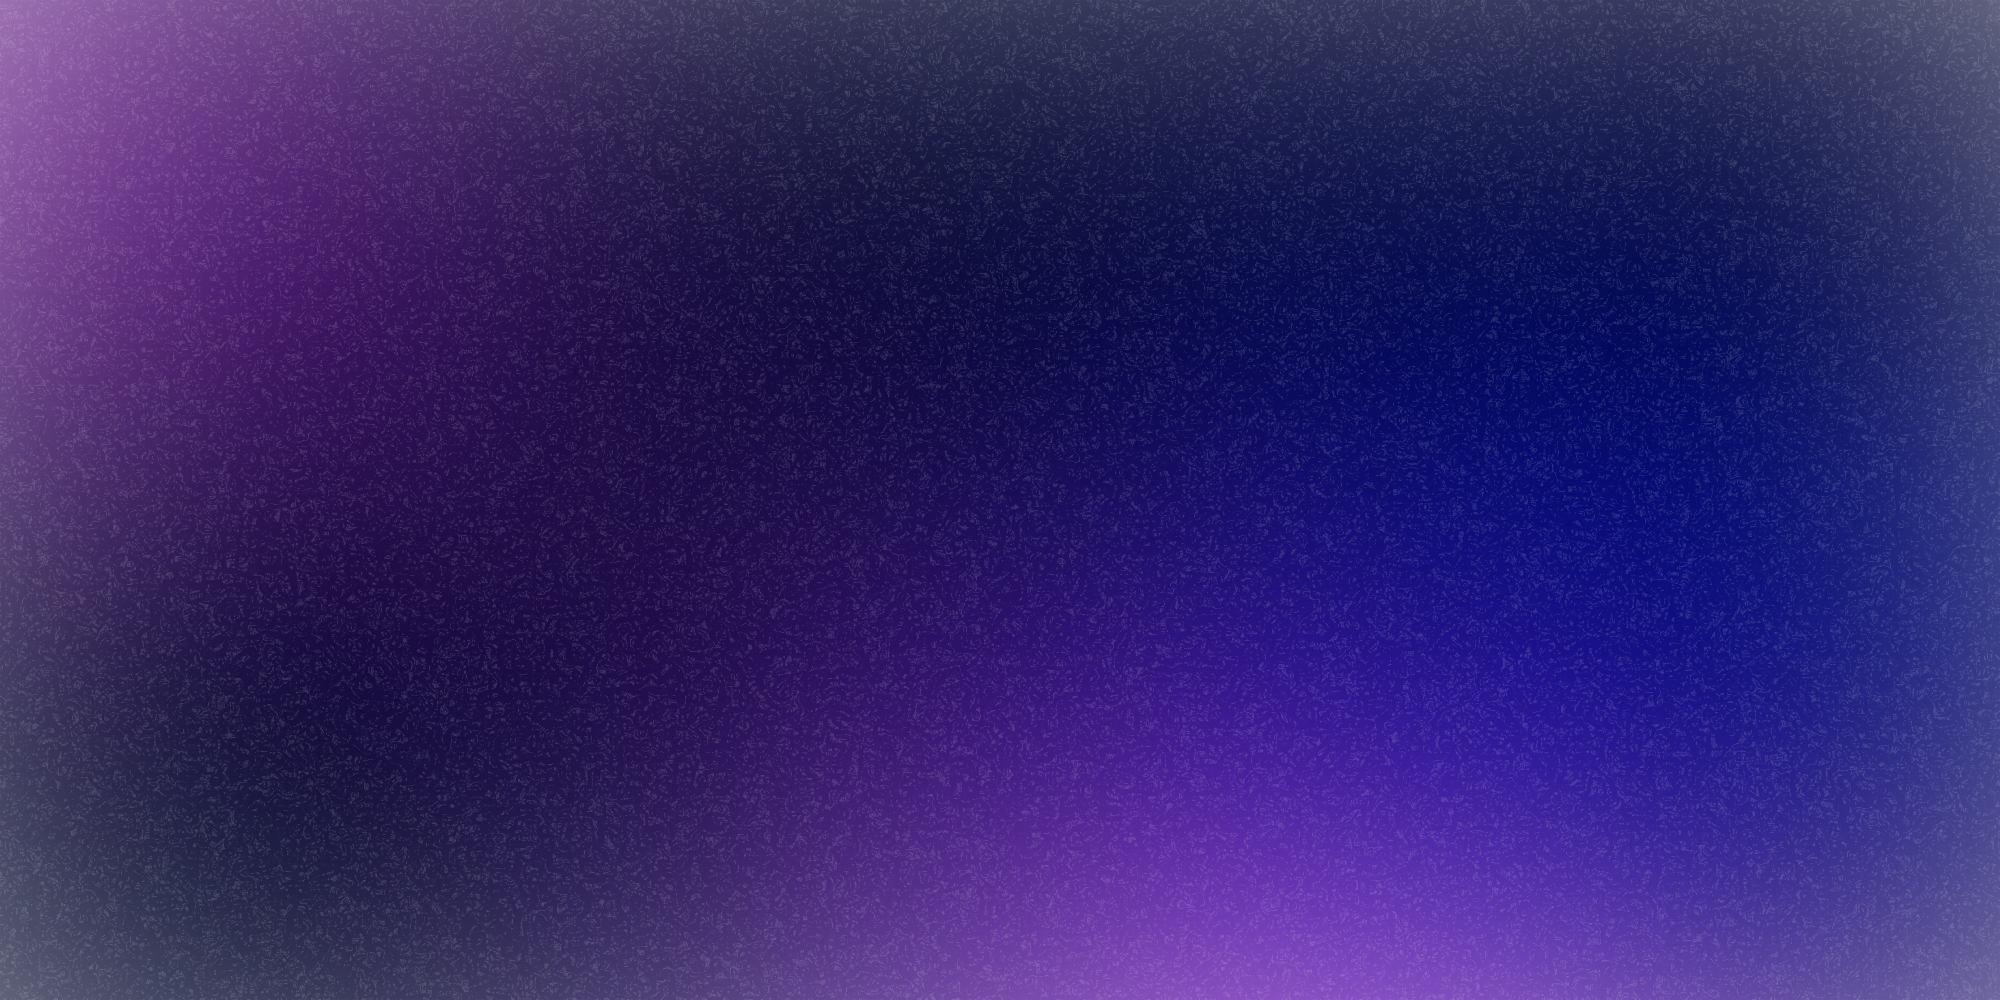
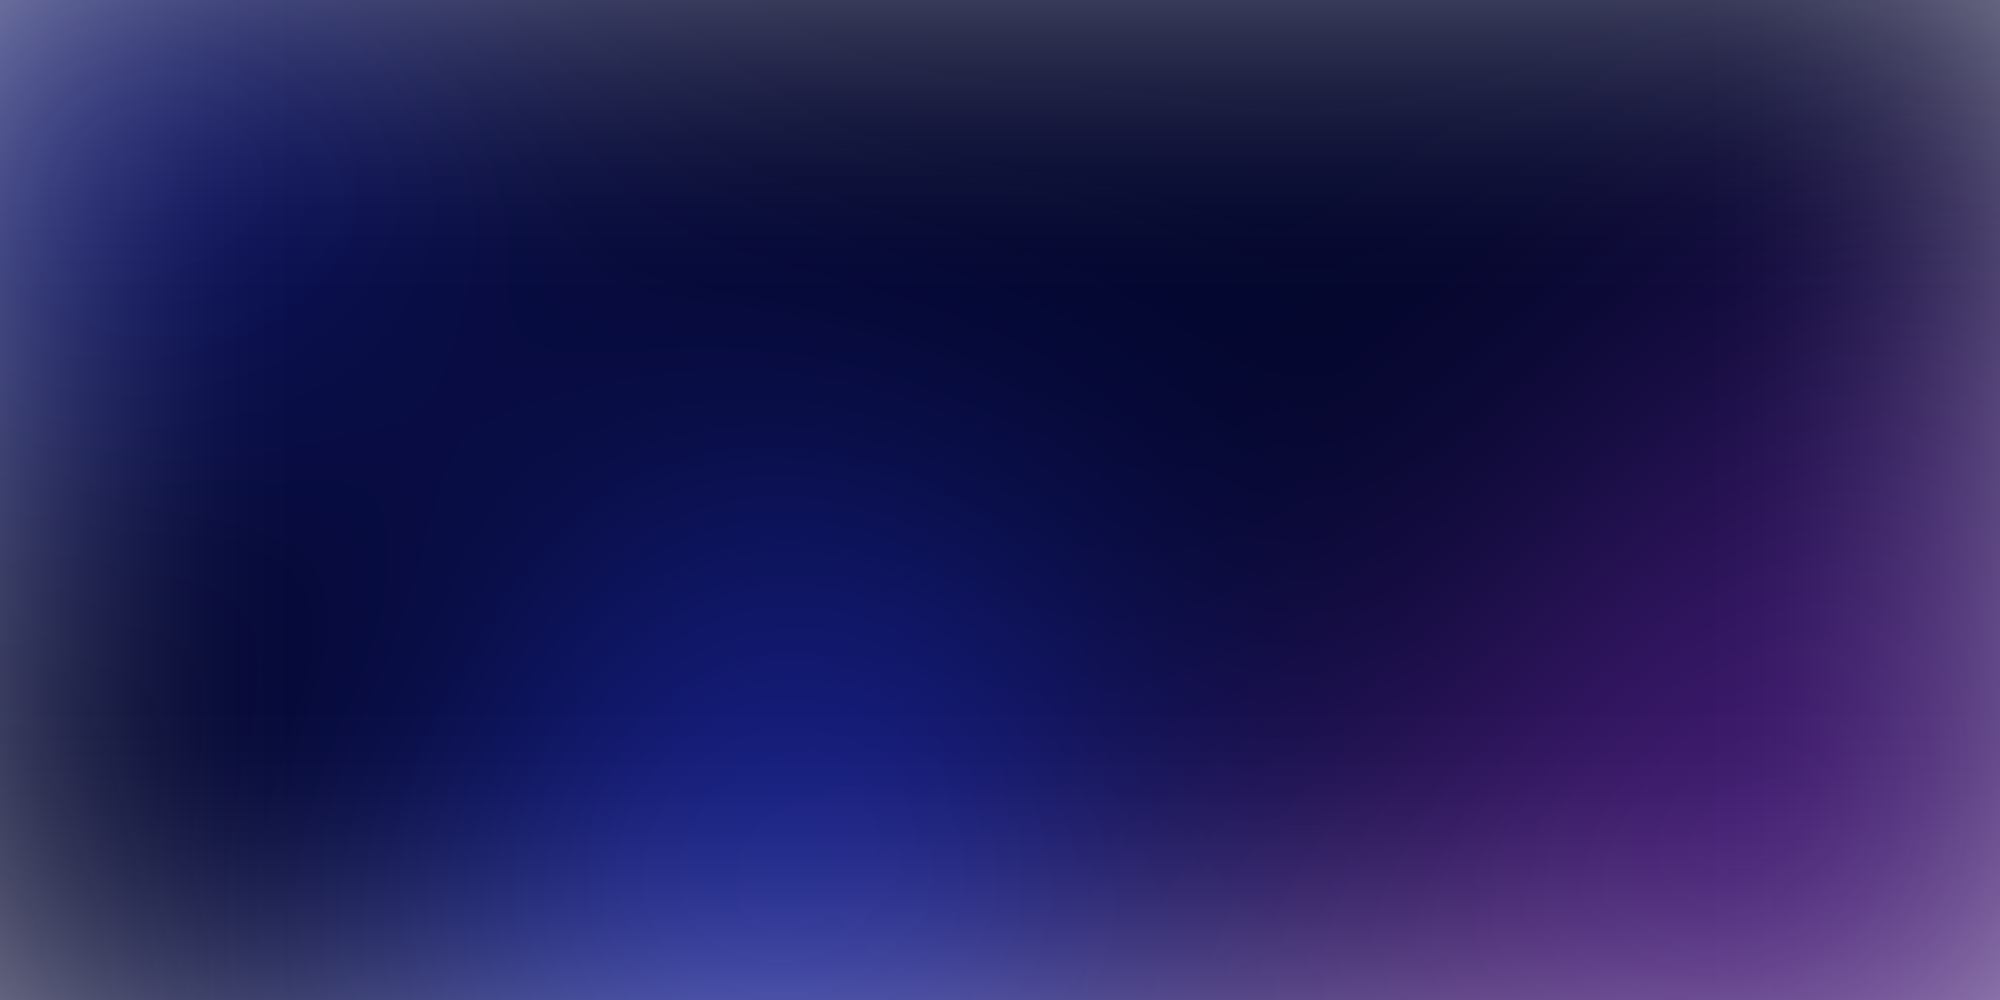
ajout des infos sur la page home

diff --git a/src/components/HomeInfos.tsx b/src/components/HomeInfos.tsx
@@ -1,0 +1,38 @@
+import React, { ReactElement } from 'react';
+import profilePicture from '../assets/profile_picture.png';
+import linkedin from '../assets/linkedin.svg';
+import github from '../assets/github.svg';
+import cv from '../assets/cv.svg';
+import email from '../assets/email.svg';
+import "./HomeInfos.css"
+
+export default function Canvas(): ReactElement {
+  return (
+    <div className="HomeInfos">
+        <div className="Split">
+            <div className="ProfilePicture">
+                <img src={profilePicture} alt="Profile" style={{ width: '350px', height: 'auto', borderRadius: '50%' }} />
+            </div>
+            <div className="TextInfos">
+                <h1 className="salut">Salut, je suis</h1>
+                <h1 className="clement">Clément Josse</h1>
+                <h1 className="developpeur">Développeur Full-Stack</h1>
+                <h1 className="construis">Je construis des applications</h1>
+                <div className="avec">
+                    <h1>avec</h1>
+                    <h1 className="precision">précision</h1>
+                    <h1>et</h1>
+                    <h1 className="passion">passion</h1>
+                    <h1>🔥</h1>
+                </div>
+                <div className="SocialIcons">
+                    <img src={linkedin} alt="LinkedIn" className="icon" />
+                    <img src={github} alt="GitHub" className="icon" />
+                    <img src={cv} alt="CV" className="icon" />
+                    <img src={email} alt="Email" className="icon" />
+                </div>
+            </div>
+        </div>
+    </div>
+  );
+}

diff --git a/src/components/HomeInfos.css b/src/components/HomeInfos.css
@@ -1,0 +1,71 @@
+.HomeInfos {
+    position: relative;
+    z-index: 2;
+    font-family: 'Montserrat', sans-serif; /* Appliquer la police Montserrat */
+
+}
+  
+.Split {
+  display: flex;
+  align-items: center; 
+  gap: 20px;
+}
+
+
+.salut{
+    color: #8FA9CA;
+    font-size: 20px;
+}
+
+.clement{
+    color: #D4F0FA;
+    font-size: 45px;
+}
+
+.developpeur{
+    color: #FFDC67;
+    font-size: 30px;
+}
+.avec h1 {
+    margin: 0; /* Supprimer les marges qui pourraient agrandir la taille perçue */
+    padding: 0; /* Supprimer les paddings */
+    line-height: 1; /* Ajuster la hauteur de ligne pour qu'elle corresponde exactement à la taille de la police */
+}
+
+
+.construis{
+    color:#8FA9CA;
+    font-size: 25px;
+}
+
+.avec {
+    display: flex;
+    align-items: center; 
+    color:#8FA9CA;
+    gap: 11px;
+}
+
+.avec h1{
+    font-size: 25px;
+}
+
+.precision {
+    background: linear-gradient(to right, #FDDD22, #F532CD);
+    -webkit-text-fill-color: transparent; /* Utilisé pour les navigateurs WebKit */
+    background-clip: text; /* Pour la compatibilité */
+}
+
+.passion {
+    background: linear-gradient(to right, #FF4FFC, #00FFCC);
+    -webkit-text-fill-color: transparent; /* Utilisé pour les navigateurs WebKit */
+    background-clip: text; /* Pour la compatibilité */
+}
+
+.SocialIcons {
+    display: flex; 
+    gap: 15px; 
+}
+
+.SocialIcons .icon {
+    width: 45px;
+}

diff --git a/src/App.css b/src/App.css
@@ -1,38 +1,17 @@
-.App {
-  text-align: center;
+.canvas-container {
+  position: relative;
 }
 
-.App-logo {
-  height: 40vmin;
-  pointer-events: none;
+.home-infos {
+  position: relative;
+  z-index: 2; /* Met HomeInfos devant Canvas */
 }
 
-@media (prefers-reduced-motion: no-preference) {
-  .App-logo {
-    animation: App-logo-spin infinite 20s linear;
-  }
-}
-
-.App-header {
-  background-color: #282c34;
-  min-height: 100vh;
-  display: flex;
-  flex-direction: column;
-  align-items: center;
-  justify-content: center;
-  font-size: calc(10px + 2vmin);
-  color: white;
-}
-
-.App-link {
-  color: #61dafb;
-}
-
-@keyframes App-logo-spin {
-  from {
-    transform: rotate(0deg);
-  }
-  to {
-    transform: rotate(360deg);
-  }
+.canvas {
+  position: absolute;
+  top: 0;
+  left: 0;
+  z-index: 1; /* Met Canvas derrière HomeInfos */
+  width: 100%;  /* Ajuster si nécessaire */
+  height: 100%; /* Ajuster si nécessaire */
 }

diff --git a/src/components/Canvas.tsx b/src/components/Canvas.tsx
@@ -1,14 +1,14 @@
 import React, { ReactElement, useEffect } from 'react';
 import { renderCanvas } from './renderCanvas';
-
-export default function Hero(): ReactElement {
+import './Canvas.css'; 
+export default function Canvas(): ReactElement {
   useEffect(() => {
     renderCanvas();
   }, []);
 
   return (
-    <div>
-      <canvas className="tailed cursor" id="canvas"></canvas>
+    <div className="canvas-container">
+      <canvas className="canvas" id="canvas"></canvas>
     </div>
   );
 }

diff --git a/src/App.js b/src/App.js
@@ -1,10 +1,11 @@
 import React from 'react';
-import Hero from './components/Hero.tsx';
-
+import Canvas from './components/Canvas.tsx';
+import HomeInfos from './components/HomeInfos.tsx';
 function App() {
   return (
-    <div className="App">
-      <Hero />
+    <div className="canvas-container">
+      <HomeInfos className="home-infos"/>
+      <Canvas className="canvas"/>
     </div>
   );
 }

diff --git a/src/components/Canvas.css b/src/components/Canvas.css
@@ -1,0 +1,16 @@
+.canvas-container {
+    position: absolute;
+    top: 0;
+    left: 0;
+    width: 100%;
+    height: 100%;
+    z-index: 1; /* Canvas derrière HomeInfos */
+    pointer-events: none; /* Laisser les événements pointer traverser le canvas */
+    background-color: #03062C; /* Ajouter la couleur de fond */
+  }
+  
+  .canvas {
+    width: 100%;
+    height: 100%;
+  }
+  

diff --git a/src/components/renderCanvas.js b/src/components/renderCanvas.js
@@ -137,11 +137,11 @@ var ctx,
   lines = [],
   E = {
     debug: true,
-    friction: 0.5,
-    trails: 30,
-    size: 30,
-    dampening: 0.25,
-    tension: 0.97,
+    friction: 0.5, 
+    trails: 20, // nombre de traits
+    size: 50, // temps avant suppression
+    dampening: 0.25, // amplification du mouvement
+    tension: 0.98,
   };
 function Node() {
   this.x = 0;
